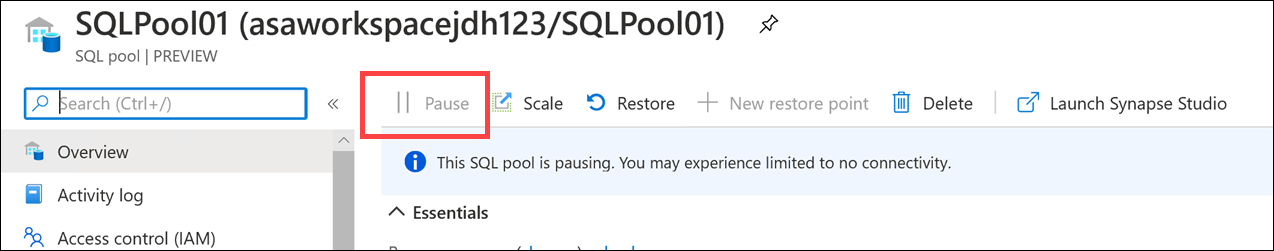
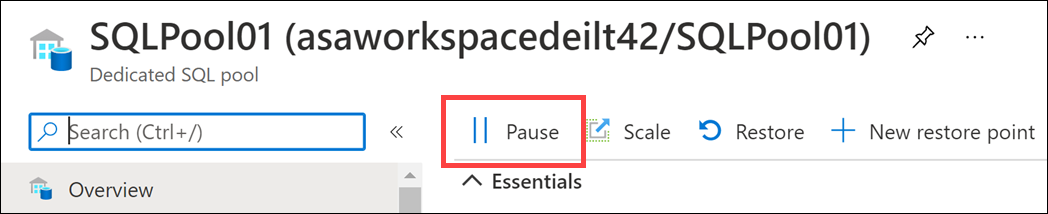
Update post-setup instructions

diff --git a/README.md b/README.md
@@ -333,7 +333,7 @@ Complete this task after setup has completed.
 
 1. Navigate to the resource group into which you deployed this environment.
 
-2. Select the **SQL pool** (`SQLPool01`).
+2. Select the **Dedicated SQL pool** (`SQLPool01`).
 
     ![The SQL pool is highlighted.](media/sql-pool.png "SQLPool01")
 
